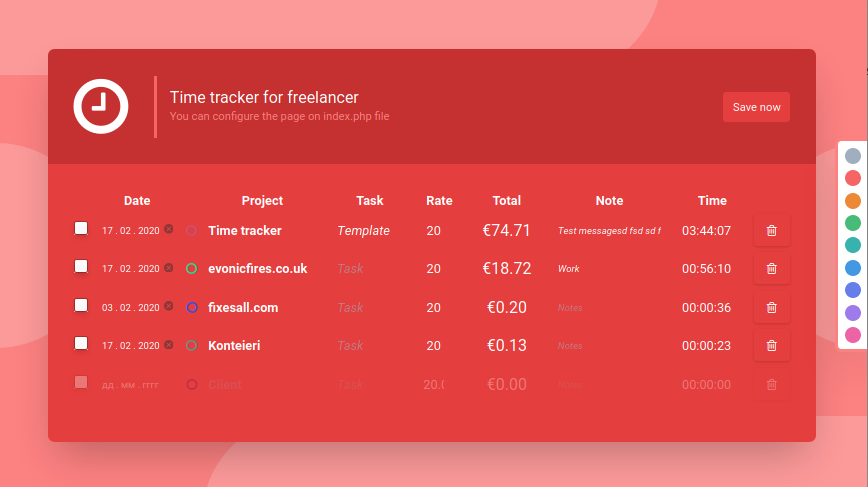
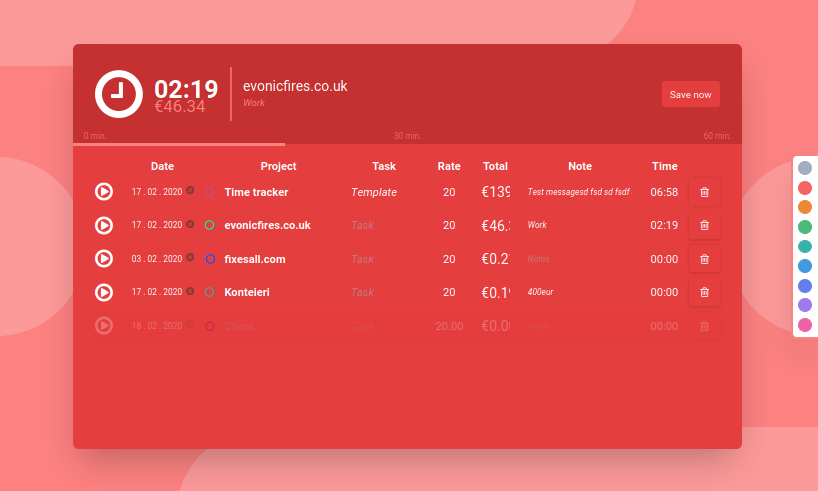
Small fix

diff --git a/timetracker.js b/timetracker.js
@@ -18,20 +18,24 @@ $(document).ready(function() {
 
         $("#big-time").html(time_array[0]+':'+time_array[1]);
         $("#big-total").html(t.config.currency+total.data('value').toFixed(2));
+        $("#client-title").html(tr.find('.client').val());
+        $("#client-task").html(tr.find('.task').val()+' <i>'+tr.find('.desc').val()+'</i>');
+
+
 
 
         tr.addClass("shadow-2xl");
         tr.removeClass("opacity-25");
 
 
-        nanobar.go(time_array[1]); // size bar 30%
+        nanobar.go(100*time_array[1]/60);
 
         if ((time_array[1] == '00' || time_array[1] == '30') && time_array[2] == '00') {
-          $("#notify").attr("src", "notify30-60.mp3");
+          $("#notify").attr("src", "notify30-60a.mp3");
           document.getElementById("notify").play();
         }
         if ((time_array[1] == '15' || time_array[1] == '45') && time_array[2] == '00') {
-          $("#notify").attr("src", "notify15.mp3");
+          $("#notify").attr("src", "notify15a.mp3");
           document.getElementById("notify").play();
         }
 
@@ -103,7 +107,7 @@ $(document).ready(function() {
       var obj = data[key];
       buffer +=
       '<tr id="task-'+key+'" data-id="'+key+'" class="taskrow'+(obj.timed == '0'?' opacity-25': '')+'">' +
-      '<td class="pl-8"><input class="timer shadow-md" id="chek-'+key+'" type="checkbox"><label for="chek-'+key+'" class="text-3xl"></label></td>' +
+      '<td class="pl-8"><input class="timer" id="chek-'+key+'" type="checkbox"><label for="chek-'+key+'" class="text-3xl"></label></td>' +
       '<td><input class="date input-mini text-xs appearance-none border rounded w-full py-2 px-3 focus:outline-none focus:shadow-outline" type="date" placeholder="Date" value="'+obj.date+'"></td>' +
       '<td><i class="fa fa-circle-o" style="color:'+t.generateColor(obj.client)+'" aria-hidden="true"></i></td>' +
       '<td><input class="client input-mini font-bold appearance-none border rounded w-full py-2 px-3 focus:outline-none focus:shadow-outline" type="text" placeholder="Client" value="'+obj.client+'"></td>' +

diff --git a/index.php b/index.php
@@ -92,20 +92,31 @@ if (strlen($data) < 3) {
           <i class="fa fa-clock-o fa-5x mr-4" aria-hidden="true"></i>
           <div class="mr-4">
             <h2 id="big-time" class="text-4xl font-bold"></h2>
-            <h2 id="big-total" class="text-3xl text-indigo-400 -mt-5"></h2>
+            <h2 id="big-total" class="text-2xl text-indigo-400 -mt-5"></h2>
           </div>
           <div class="mr-auto border-l-4 border-indigo-500 p-4">
-            <h1 class="text-xl leading-none mb-1">Time tracker for freelancer</h1>
-            <h2 class="text-indigo-400 text-sm">Click the checkbox to start timing a task, edit any fields by clicking on them.</h2>
+            <h1 class="text-xl leading-none mb-1" id="client-title">Time tracker for freelancer</h1>
+            <h2 class="text-indigo-400 text-sm" id="client-task">Click the checkbox to start timing a task, edit any fields by clicking on them.</h2>
           </div>
           <form>
             <button id="save" class="bg-indigo-600 text-white py-2 text-sm px-3 rounded focus:outline-none">Save now</button>
           </form>
         </div>
+        <div class="flex -mt-5">
+          <div class="flex-1 text-indigo-500 text-xs text-left pl-4">
+            0 min.
+          </div>
+          <div class="flex-1 text-indigo-500 text-xs text-center">
+            30 min.
+          </div>
+          <div class="flex-1 text-indigo-500 text-xs text-right pr-4">
+            60 min.
+          </div>
+        </div>
         <div id="progress" class="nanobar"></div>
         <div class="pt-4 flex flex-1 items-start overflow-auto">
           <div class="flex-1">
-            <div class="flex mb-8">
+            <div class="flex mb-1">
               <table id="table" class="w-auto">
                 <thead>
                   <tr>

diff --git a/README.md b/README.md
@@ -38,7 +38,7 @@ This setup makes it extremely easy to install Freelance Timetracker with just a 
 
 ### License
 
-Freelance Timetracker is authored by Xavi Esteve and is licensed under a MIT License.
+Freelance Timetracker is authored by Xavi Esteve and Renats K. is licensed under a MIT License.
 
 Feel free to fork it and send any pull requests.
 
